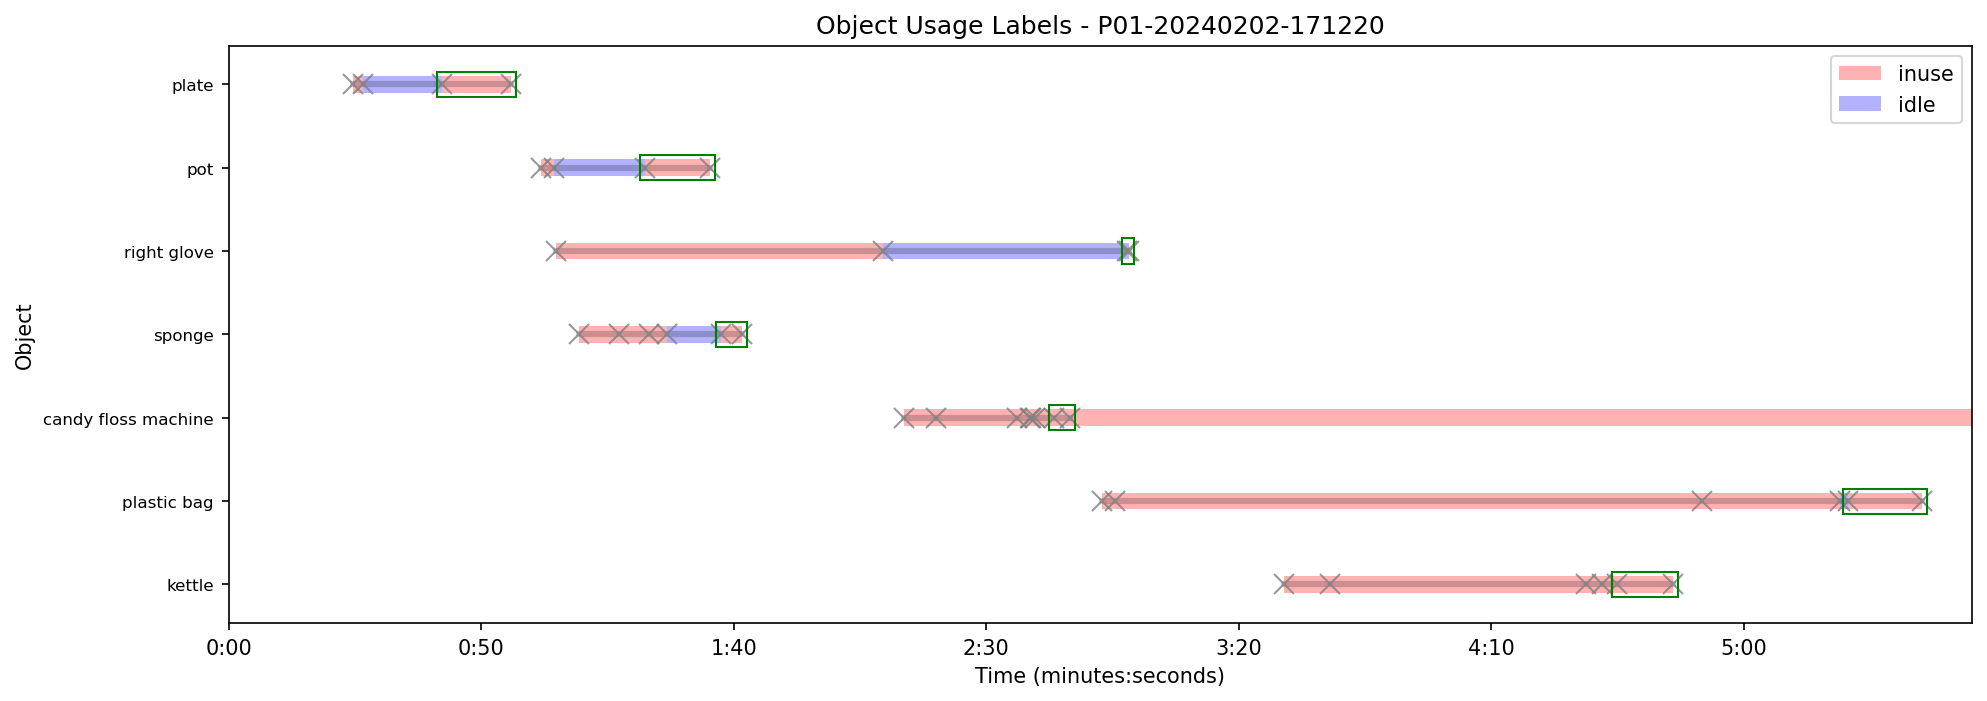
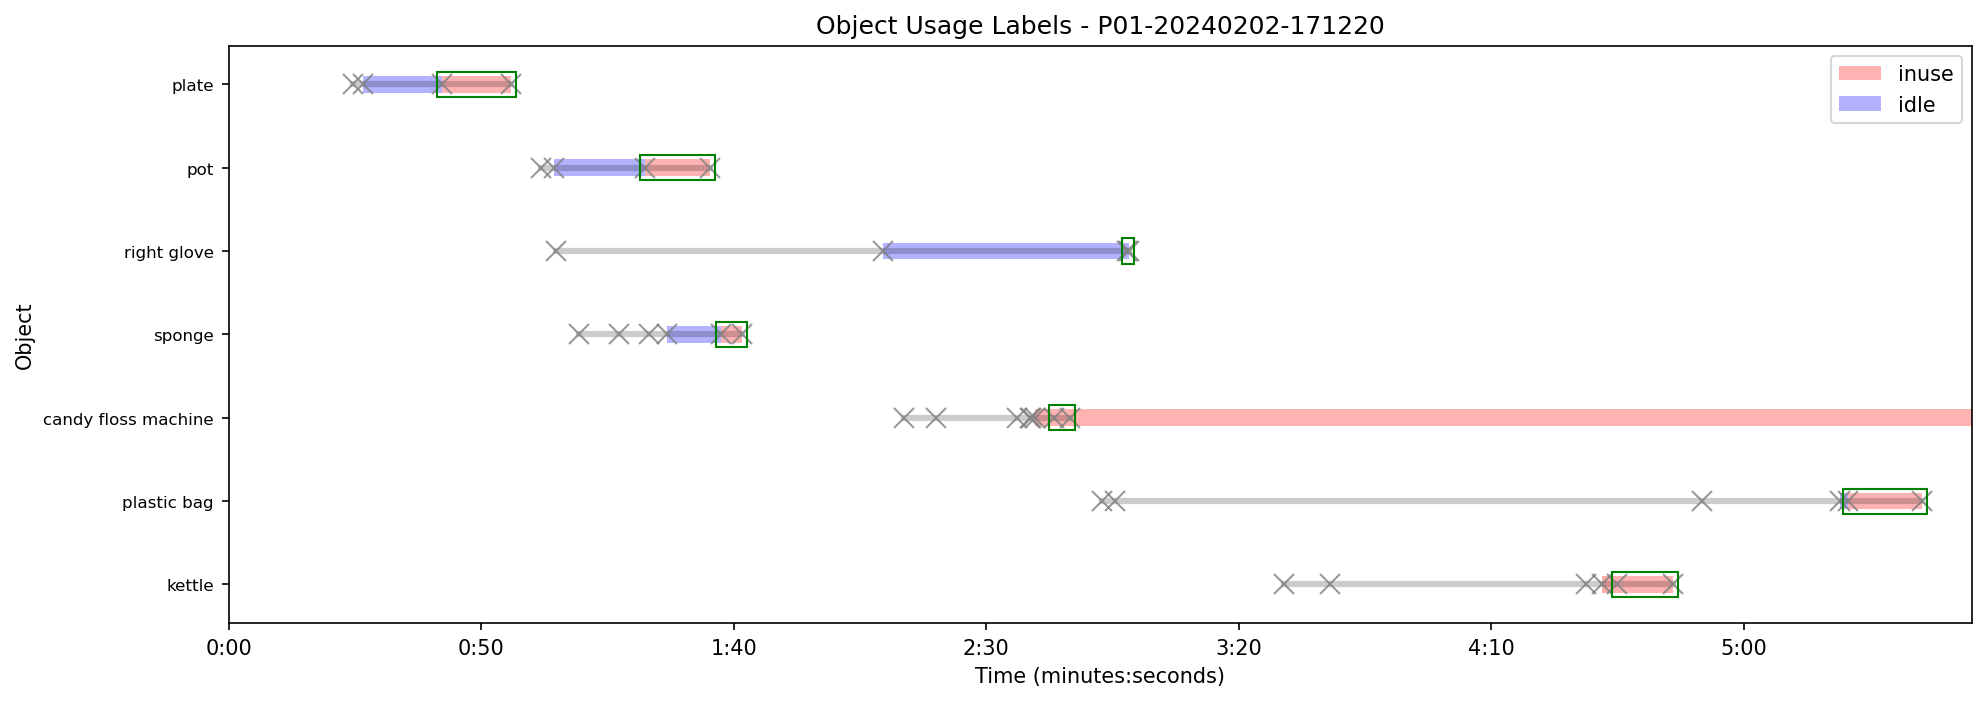
fix object touch plot

diff --git a/plot_object_touches_usage.py b/plot_object_touches_usage.py
@@ -26,15 +26,15 @@ def plot_object_with_labels(track_sequence, ax, y_position, label_dict, video_en
     if plot_points:
         if len(plot_o) >= 2:
             fill_end = plot_o[-2]
-            ax.fill_betweenx(
-                [y_position - BAR_WIDTH/2, y_position + BAR_WIDTH/2],
-                plot_points[0],
-                fill_end,
-                color="red",
-                alpha=0.3,
-                zorder=0,
-                linewidth=0  # removes border
-            )
+            # ax.fill_betweenx(
+            #     [y_position - BAR_WIDTH/2, y_position + BAR_WIDTH/2],
+            #     plot_points[0],
+            #     fill_end,
+            #     color="gray",
+            #     alpha=0.3,
+            #     zorder=0,
+            #     linewidth=0  # removes border
+            # )
         ax.plot(plot_points, [y_position] * len(plot_points), "-", color="black", linewidth=3, alpha=0.2)
         ax.plot(plot_x, [y_position] * len(plot_x), "x", color="gray", markersize=10, alpha=0.8)
         ax.plot(plot_o, [y_position] * len(plot_o), "x", color="gray", markersize=10, alpha=0.8)
